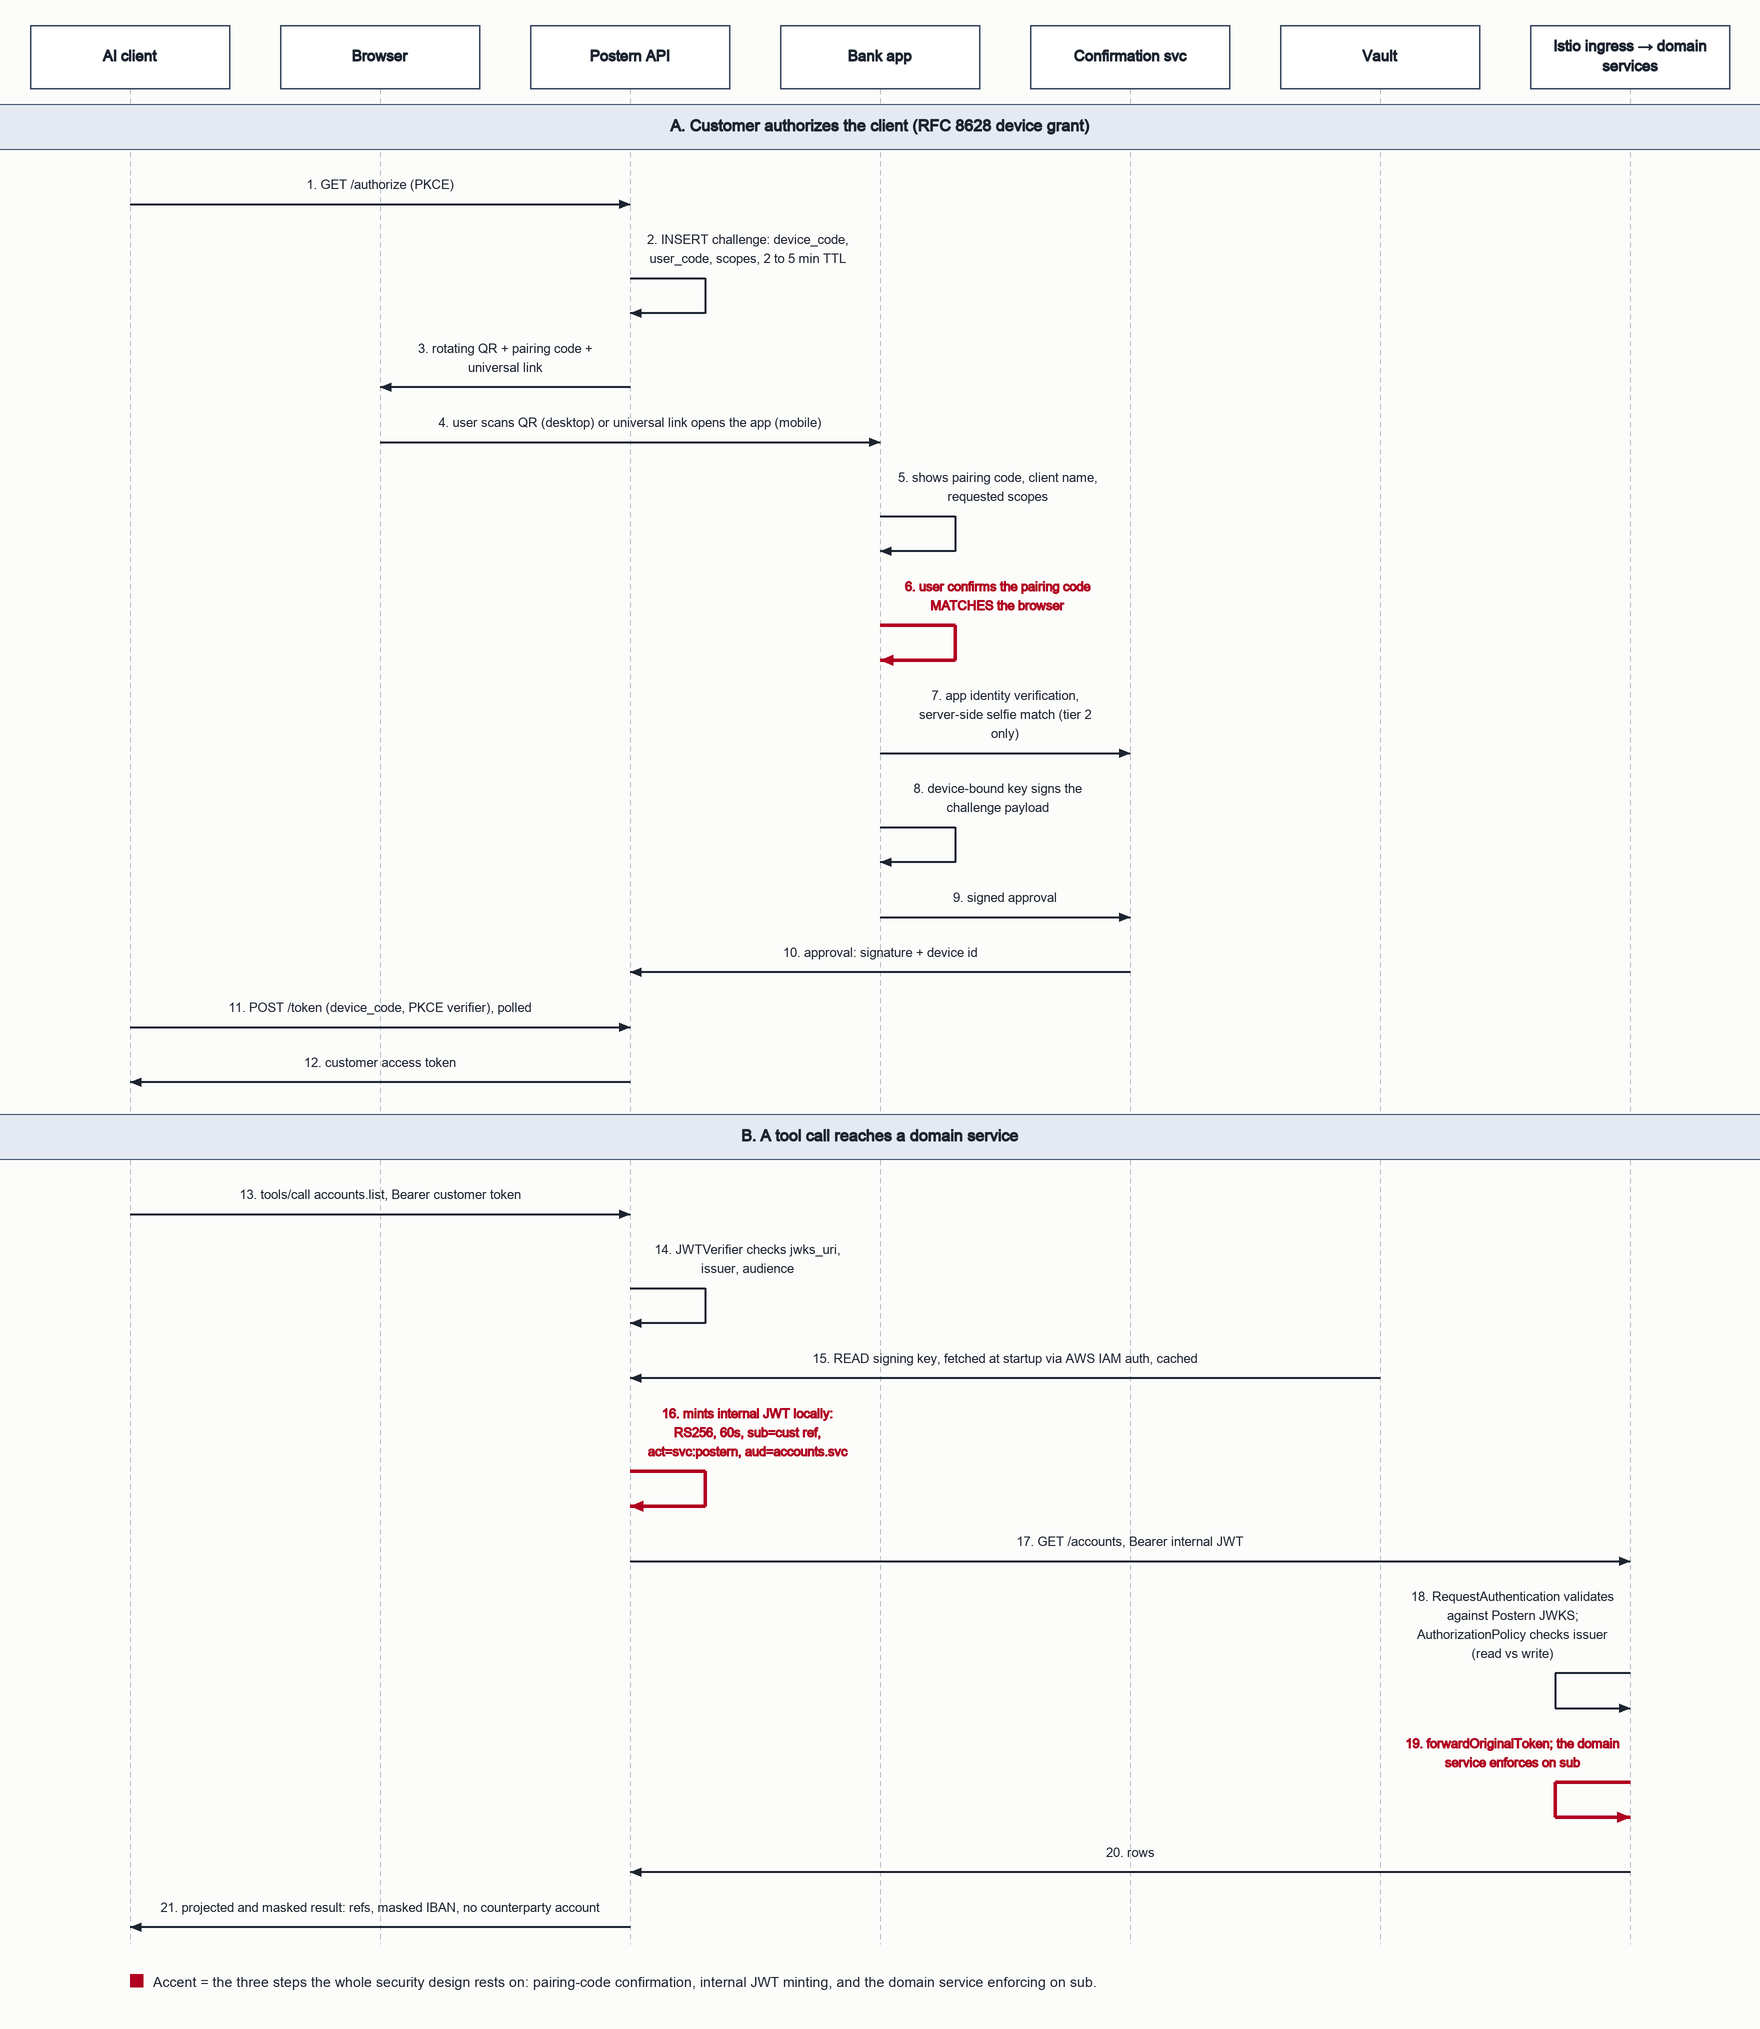
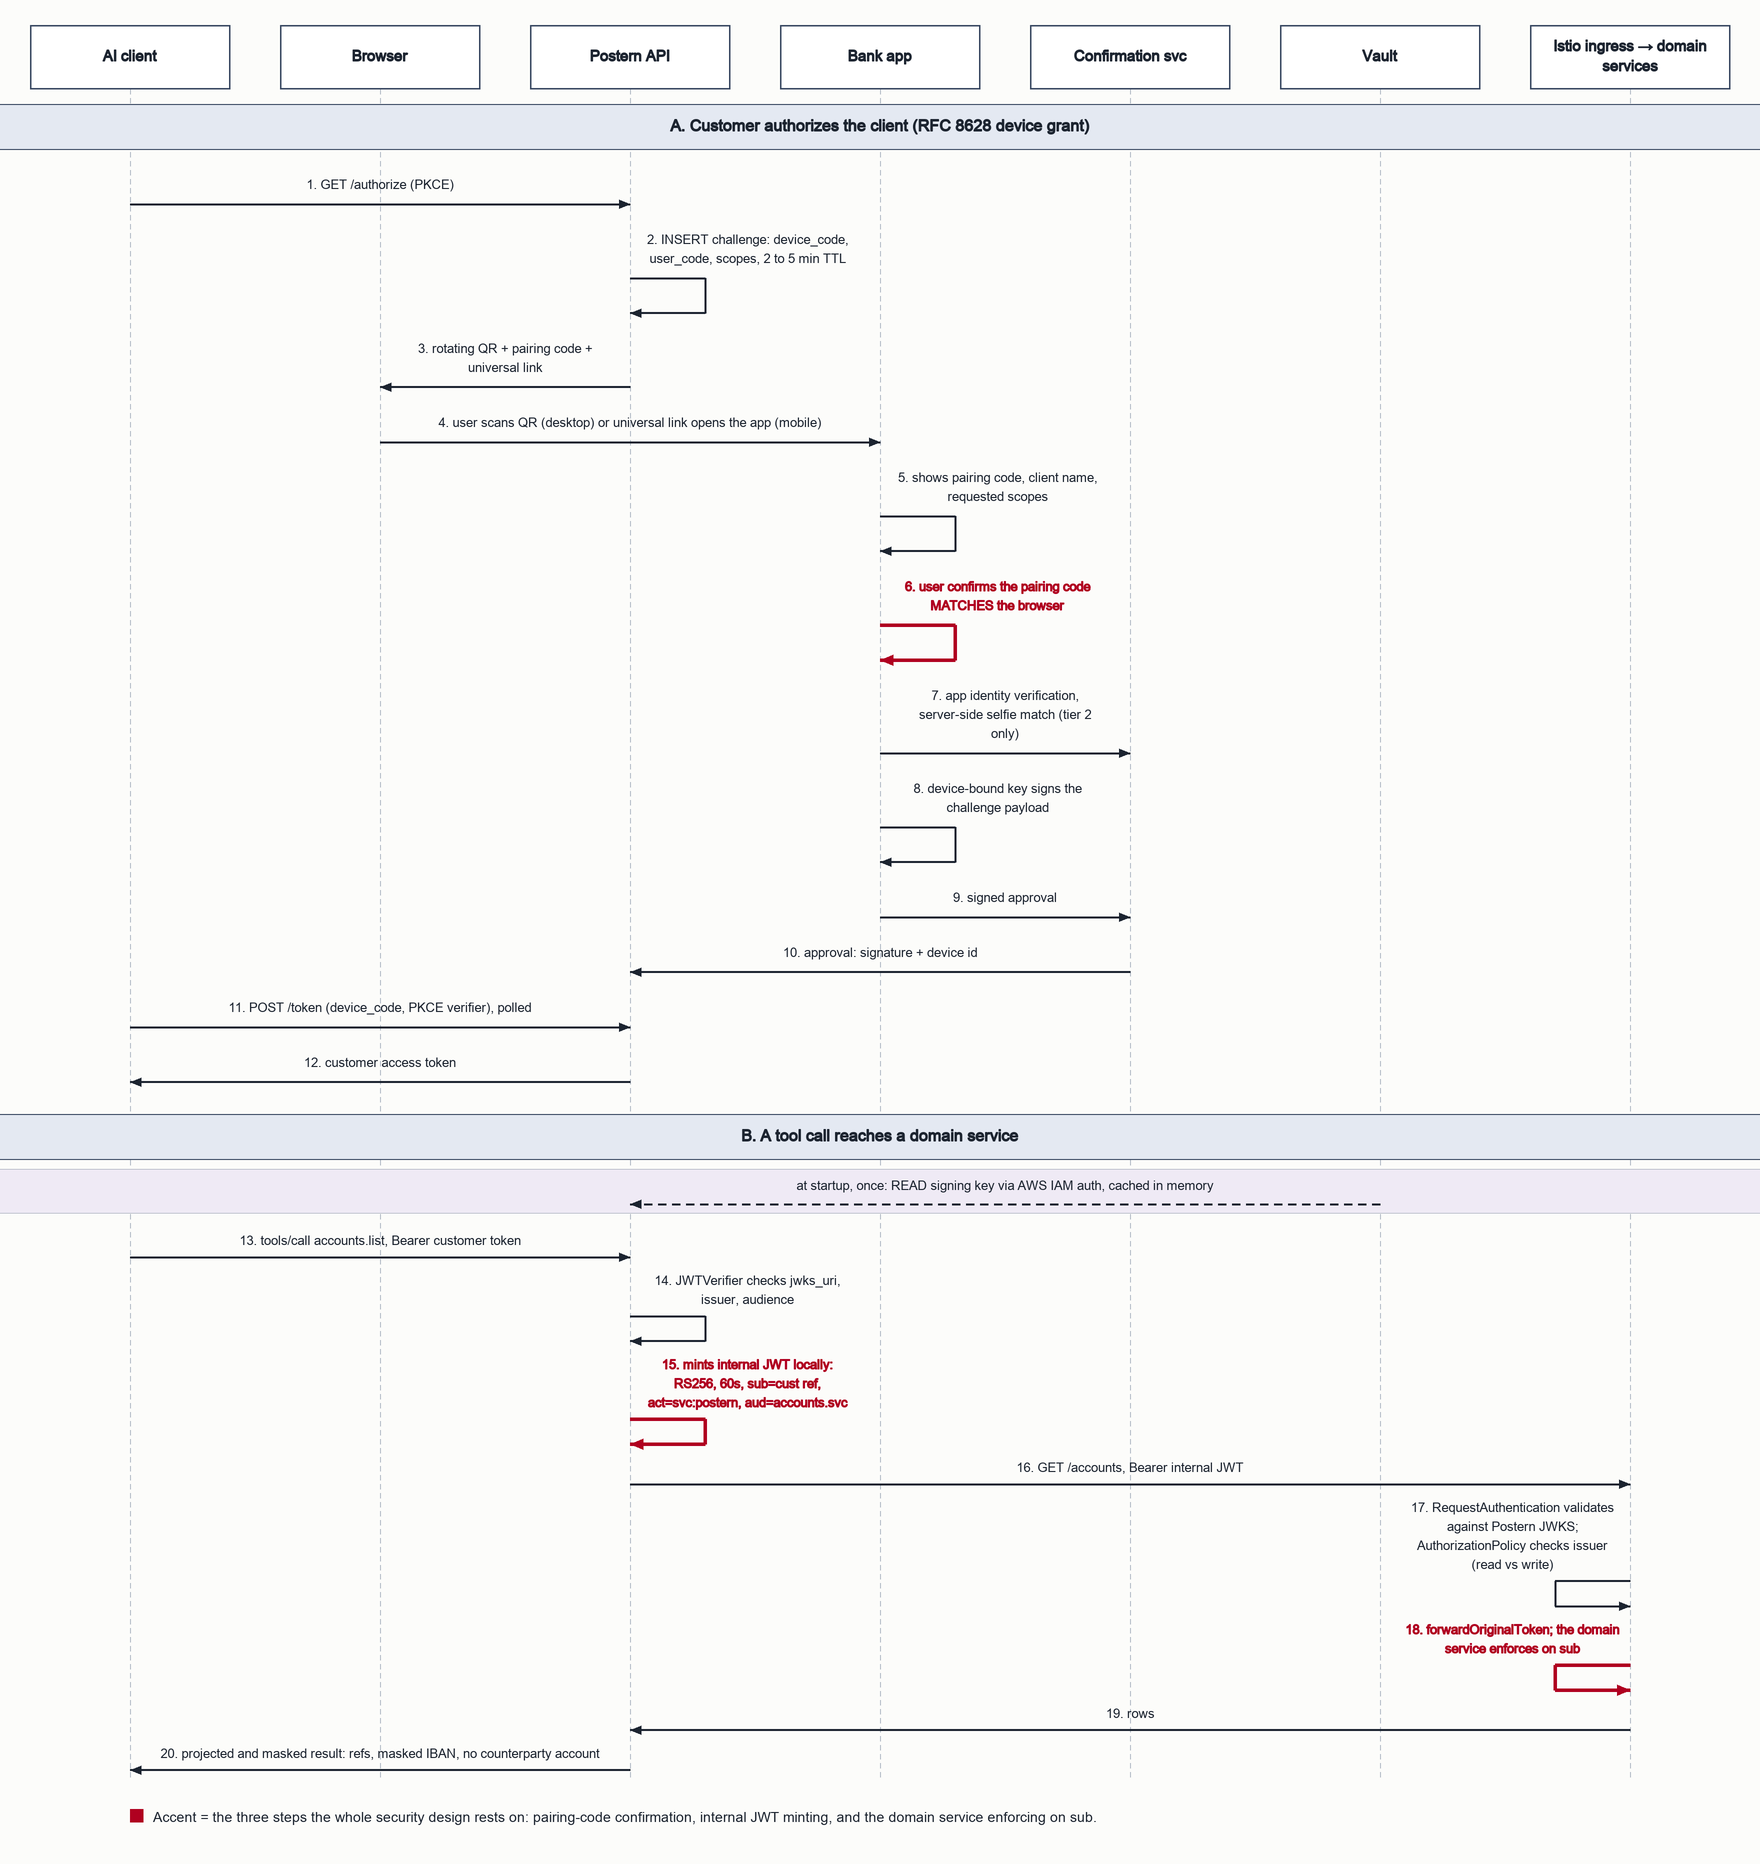
docs: draw the Vault key fetch as a startup precondition, not a per-request hop
Claude-Session: https://claude.ai/code/session_01BeSM9spAjy7zQSgcshW5jv

diff --git a/tools/render_auth_flow.py b/tools/render_auth_flow.py
@@ -70,6 +70,13 @@ ROW_TOP_PAD = 22
 ARROW_GAP = 16
 ROW_BOTTOM_PAD = 34
 
+# Phase B rows are tighter than phase A: same content, less padding, so the
+# image is not taller than it needs to be.
+ROW_TOP_PAD_B = 14
+ARROW_GAP_B = 10
+ROW_BOTTOM_PAD_B = 18
+LOOP_DEPTH_B = 50
+
 LOOP_WIDTH = 150
 LOOP_DEPTH = 70
 
@@ -85,6 +92,16 @@ GAP_BETWEEN_PHASES = 30
 GAP_TO_LEGEND = 60
 LEGEND_HEIGHT = 70
 BOTTOM_MARGIN = 40
+
+# Startup-precondition band (Vault key fetch), drawn below the phase B header
+# and above step 13, outside the numbered sequence.
+PRECONDITION_FILL = "#EFEAF5"
+PRECONDITION_RULE = "#9AA3B2"
+PRECONDITION_TOP_PAD = 18
+PRECONDITION_ARROW_GAP = 14
+PRECONDITION_BOTTOM_PAD = 18
+GAP_BAND_TO_PRECONDITION = 20
+GAP_PRECONDITION_TO_STEPS = 26
 
 ARROW_WIDTH_NORMAL = 4
 ARROW_WIDTH_ACCENT = 7
@@ -199,22 +216,15 @@ PHASE_B_STEPS: list[Step] = [
     Step(14, "self", 2, 2, "JWTVerifier checks jwks_uri, issuer, audience"),
     Step(
         15,
-        "call",
-        5,
-        2,
-        "READ signing key, fetched at startup via AWS IAM auth, cached",
-    ),
-    Step(
-        16,
         "self",
         2,
         2,
         "mints internal JWT locally: RS256, 60s, sub=cust ref, act=svc:postern, aud=accounts.svc",
         highlight=True,
     ),
-    Step(17, "call", 2, 6, "GET /accounts, Bearer internal JWT"),
+    Step(16, "call", 2, 6, "GET /accounts, Bearer internal JWT"),
     Step(
-        18,
+        17,
         "self",
         6,
         6,
@@ -222,22 +232,30 @@ PHASE_B_STEPS: list[Step] = [
         "checks issuer (read vs write)",
     ),
     Step(
-        19,
+        18,
         "self",
         6,
         6,
         "forwardOriginalToken; the domain service enforces on sub",
         highlight=True,
     ),
-    Step(20, "call", 6, 2, "rows"),
+    Step(19, "call", 6, 2, "rows"),
     Step(
-        21,
+        20,
         "call",
         2,
         0,
         "projected and masked result: refs, masked IBAN, no counterparty account",
     ),
 ]
+
+# The Vault key fetch is a startup precondition, not a per-request hop: "Sign
+# locally; do not call Vault per request. Fetch the key at startup, cache in
+# memory, refresh periodically." It is drawn out of the numbered sequence,
+# below the phase B header, as a dashed arrow.
+VAULT_LANE = 5
+POSTERN_LANE = 2
+PRECONDITION_LABEL = "at startup, once: READ signing key via AWS IAM auth, cached in memory"
 
 
 @dataclass
@@ -247,6 +265,16 @@ class RowLayout:
     top: int
     arrow_y: int
     height: int
+    top_pad: int
+    loop_depth: int
+
+
+@dataclass
+class PreconditionLayout:
+    lines: list[str]
+    top: int
+    bottom: int
+    arrow_y: int
 
 
 @dataclass
@@ -258,6 +286,7 @@ class Diagram:
     phase_a_rows: list[RowLayout] = field(default_factory=list)
     phase_b_band_top: int = 0
     phase_b_band_bottom: int = 0
+    precondition: PreconditionLayout | None = None
     phase_b_rows: list[RowLayout] = field(default_factory=list)
     lifeline_bottom: int = 0
     legend_y: int = 0
@@ -288,7 +317,16 @@ def label_geometry(step: Step, lane_x: list[int]) -> tuple[int, float]:
     return center_x, float(max_width)
 
 
-def build_rows(steps: list[Step], lane_x: list[int], start_top: int) -> list[RowLayout]:
+def build_rows(
+    steps: list[Step],
+    lane_x: list[int],
+    start_top: int,
+    *,
+    top_pad: int = ROW_TOP_PAD,
+    arrow_gap: int = ARROW_GAP,
+    bottom_pad: int = ROW_BOTTOM_PAD,
+    loop_depth: int = LOOP_DEPTH,
+) -> list[RowLayout]:
     rows: list[RowLayout] = []
     top = start_top
     for step in steps:
@@ -296,14 +334,35 @@ def build_rows(steps: list[Step], lane_x: list[int], start_top: int) -> list[Row
         text = f"{step.number}. {step.label}"
         lines = wrap_text(text, LABEL_FONT, max_width)
         label_block_height = len(lines) * LINE_HEIGHT
-        arrow_y = top + ROW_TOP_PAD + label_block_height + ARROW_GAP
+        arrow_y = top + top_pad + label_block_height + arrow_gap
         if step.kind == "self":
-            height = ROW_TOP_PAD + label_block_height + ARROW_GAP + LOOP_DEPTH + ROW_BOTTOM_PAD
+            height = top_pad + label_block_height + arrow_gap + loop_depth + bottom_pad
         else:
-            height = ROW_TOP_PAD + label_block_height + ARROW_GAP + ROW_BOTTOM_PAD
-        rows.append(RowLayout(step=step, lines=lines, top=top, arrow_y=arrow_y, height=height))
+            height = top_pad + label_block_height + arrow_gap + bottom_pad
+        rows.append(
+            RowLayout(
+                step=step,
+                lines=lines,
+                top=top,
+                arrow_y=arrow_y,
+                height=height,
+                top_pad=top_pad,
+                loop_depth=loop_depth,
+            )
+        )
         top += height
     return rows
+
+
+def build_precondition(lane_x: list[int], top: int) -> PreconditionLayout:
+    """Layout the out-of-band Vault key fetch, drawn once, not per request."""
+    span = abs(lane_x[VAULT_LANE] - lane_x[POSTERN_LANE])
+    max_width = max(span - CALL_LABEL_PADDING, 240)
+    lines = wrap_text(PRECONDITION_LABEL, LABEL_FONT, max_width)
+    label_block_height = len(lines) * LINE_HEIGHT
+    arrow_y = top + PRECONDITION_TOP_PAD + label_block_height + PRECONDITION_ARROW_GAP
+    bottom = arrow_y + PRECONDITION_BOTTOM_PAD
+    return PreconditionLayout(lines=lines, top=top, bottom=bottom, arrow_y=arrow_y)
 
 
 def compute_layout() -> Diagram:
@@ -326,8 +385,19 @@ def compute_layout() -> Diagram:
     diagram.phase_b_band_top = phase_a_bottom + GAP_BETWEEN_PHASES
     diagram.phase_b_band_bottom = diagram.phase_b_band_top + PHASE_BAND_HEIGHT
 
-    steps_b_top = diagram.phase_b_band_bottom + GAP_BAND_TO_STEPS
-    diagram.phase_b_rows = build_rows(PHASE_B_STEPS, diagram.lane_x, steps_b_top)
+    precondition_top = diagram.phase_b_band_bottom + GAP_BAND_TO_PRECONDITION
+    diagram.precondition = build_precondition(diagram.lane_x, precondition_top)
+
+    steps_b_top = diagram.precondition.bottom + GAP_PRECONDITION_TO_STEPS
+    diagram.phase_b_rows = build_rows(
+        PHASE_B_STEPS,
+        diagram.lane_x,
+        steps_b_top,
+        top_pad=ROW_TOP_PAD_B,
+        arrow_gap=ARROW_GAP_B,
+        bottom_pad=ROW_BOTTOM_PAD_B,
+        loop_depth=LOOP_DEPTH_B,
+    )
     phase_b_bottom = diagram.phase_b_rows[-1].top + diagram.phase_b_rows[-1].height
 
     diagram.lifeline_bottom = phase_b_bottom
@@ -381,6 +451,53 @@ def draw_phase_band(draw: ImageDraw.ImageDraw, top: int, bottom: int, title: str
     draw.text((CANVAS_WIDTH / 2 - w / 2, y), title, font=PHASE_FONT, fill=BAND_TEXT, stroke_width=1)
 
 
+def draw_dashed_hline(
+    draw: ImageDraw.ImageDraw, x1: int, x2: int, y: int, color: str, width: int
+) -> None:
+    dash, gap = 16, 12
+    x_start, x_end = (x1, x2) if x1 <= x2 else (x2, x1)
+    x = x_start
+    while x < x_end:
+        seg_end = min(x + dash, x_end)
+        draw.line([(x, y), (seg_end, y)], fill=color, width=width)
+        x += dash + gap
+
+
+def draw_precondition(draw: ImageDraw.ImageDraw, diagram: Diagram) -> None:
+    """Draw the Vault key fetch as an out-of-band precondition, not a step.
+
+    Dashed arrow, unnumbered label, and a tinted band with thin rules so it
+    reads as "happens once at startup" rather than a hop in the numbered
+    tool-call sequence.
+    """
+    precondition = diagram.precondition
+    if precondition is None:
+        return
+    draw.rectangle([0, precondition.top, CANVAS_WIDTH, precondition.bottom], fill=PRECONDITION_FILL)
+    draw.line(
+        [(0, precondition.top), (CANVAS_WIDTH, precondition.top)],
+        fill=PRECONDITION_RULE,
+        width=1,
+    )
+    draw.line(
+        [(0, precondition.bottom), (CANVAS_WIDTH, precondition.bottom)],
+        fill=PRECONDITION_RULE,
+        width=1,
+    )
+
+    x_src = diagram.lane_x[VAULT_LANE]
+    x_dst = diagram.lane_x[POSTERN_LANE]
+    y = precondition.arrow_y
+    draw_dashed_hline(draw, x_src, x_dst, y, INK, ARROW_WIDTH_NORMAL)
+    draw.polygon(
+        arrowhead(x_dst, y, False, ARROWHEAD_LEN_NORMAL, ARROWHEAD_HALF_WIDTH_NORMAL), fill=INK
+    )
+
+    center_x = (x_src + x_dst) // 2
+    label_top = precondition.top + PRECONDITION_TOP_PAD
+    draw_label_block(draw, precondition.lines, center_x, label_top, INK, False)
+
+
 def arrowhead(
     tip_x: int, tip_y: int, pointing_right: bool, length: int, half_width: int
 ) -> list[tuple[int, int]]:
@@ -426,7 +543,7 @@ def draw_call(draw: ImageDraw.ImageDraw, row: RowLayout, lane_x: list[int]) -> N
     draw.polygon(arrowhead(x_dst, y, pointing_right, head_len, half_w), fill=color)
 
     center_x, _ = label_geometry(step, lane_x)
-    label_top = row.top + ROW_TOP_PAD
+    label_top = row.top + row.top_pad
     draw_label_block(draw, row.lines, center_x, label_top, color, step.highlight)
 
 
@@ -439,7 +556,7 @@ def draw_self_call(draw: ImageDraw.ImageDraw, row: RowLayout, lane_x: list[int])
 
     x = lane_x[step.src]
     y_top = row.arrow_y
-    y_bottom = y_top + LOOP_DEPTH
+    y_bottom = y_top + row.loop_depth
     flip = self_call_flip(step)
     x_out = x - LOOP_WIDTH if flip else x + LOOP_WIDTH
 
@@ -449,7 +566,7 @@ def draw_self_call(draw: ImageDraw.ImageDraw, row: RowLayout, lane_x: list[int])
     draw.polygon(arrowhead(x, y_bottom, flip, head_len, half_w), fill=color)
 
     center_x, _ = label_geometry(step, lane_x)
-    label_top = row.top + ROW_TOP_PAD
+    label_top = row.top + row.top_pad
     draw_label_block(draw, row.lines, center_x, label_top, color, step.highlight)
 
 
@@ -482,6 +599,7 @@ def render() -> Image.Image:
     draw_lifelines(draw, diagram)
     draw_phase_band(draw, diagram.phase_a_band_top, diagram.phase_a_band_bottom, PHASE_A_TITLE)
     draw_phase_band(draw, diagram.phase_b_band_top, diagram.phase_b_band_bottom, PHASE_B_TITLE)
+    draw_precondition(draw, diagram)
     draw_steps(draw, diagram.phase_a_rows, diagram.lane_x)
     draw_steps(draw, diagram.phase_b_rows, diagram.lane_x)
     draw_headers(draw, diagram)
